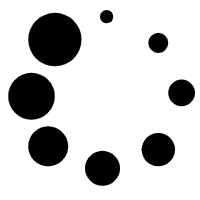
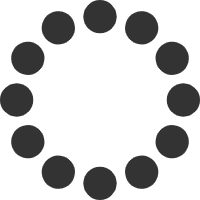
天气详情加白天/黑夜判断

diff --git a/pages/weatherForecast/weatherForecast.vue b/pages/weatherForecast/weatherForecast.vue
@@ -1,7 +1,10 @@
 <template>
-	<view class="page-bg" style="padding-bottom: 24px;background: #fff;">
-    <view class="header-modular" v-if="now">
-	    <image class="bg-wave" src="https://codermoyv.gitee.io/coder-moyv/assets/images/wechat/bg_wave.gif"></image>
+	<view class="page-bg" style="padding-bottom: 24px;background: #fff url(/static/100{{dn}}.png) no-repeat center bottom;background-size: 100% 100%;">
+    <!-- <view>
+　　　　<web-view :src="hftqUrl"></web-view>
+　　　</view> -->
+    <view class="header-modular" v-if="now" style="background: transparent;">
+	    <!-- <image class="bg-wave" src="https://codermoyv.gitee.io/coder-moyv/assets/images/wechat/bg_wave.gif"></image> -->
       <view class="row">
         <view class="row location-wrap" @click="selectLocation">
           <image class="icon" src="/static/icon_location.png"></image>
@@ -20,11 +23,53 @@
         <!-- 风向 级数 -->
         <view class="tips ">{{now.windDir}} {{now.windScale}}级</view>
         <view class="tips ">湿度 {{now.humidity}}%</view>
-        <view class="tips ">气压 {{now.pressure}}Pa</view>
+        <view class="tips ">气压 {{now.pressure}}hPa</view>
+      </view>
+    </view>
+    <view class="header-modular" v-else style="background: transparent;text-align: center;line-height: 360rpx;">
+      <view class="loading"></view>
+    </view>
+
+    <view>
+      <view class="tab-title">
+    　　<view @click="change(0)" :class="{active:active == 0}">24小时预报</view>
+      　<view @click="change(1)" :class="{active:active == 1}">7天预报</view>
+      </view>
+      <view class="tab-cont" :class="{active:active == 0}">
+        <view class="card-modular " v-if="hourly">
+          <view class="card-wrap">
+            <block v-for="(item, index) in hourly" :key="index">
+              <view class="item hourly">
+                <view class="text-gray">{{item.time}}</view>
+                <image class="icon" src="https://codermoyv.gitee.io/coder-moyv/assets/images/wechat/weather_custom/{{item.icon}}.png"></image>
+                <view class="text-primary mb-32">{{item.temp}}°</view>
+                <view>{{item.windDir}}</view>
+                <view class="text-gray">{{item.windScale}}级</view>
+              </view>
+            </block>
+          </view>
+        </view>
+      </view>
+      <view class="tab-cont" :class="{active:active == 1}">
+        <view class="card-modular" v-if="daily">
+          <view class="card-wrap">
+            <block v-for="(item, index) in daily" :key="index">
+              <view class="item daily">
+                <view>{{item.dateToString}}</view>
+                <view class="text-gray">{{item.date}}</view>
+                <image class="icon" src="https://codermoyv.gitee.io/coder-moyv/assets/images/wechat/weather_custom/{{item.iconDay}}.png"></image>
+                <view class="text-primary ">{{item.tempMin}}°C~{{item.tempMax}}°C</view>
+                <image class="icon" src="https://codermoyv.gitee.io/coder-moyv/assets/images/wechat/weather_custom/{{item.iconNight}}.png"></image>
+                <view>{{item.windDirDay}}</view>
+                <view class="text-gray">{{item.windScaleDay}}级</view>
+              </view>
+            </block>
+          </view>
+        </view>
       </view>
     </view>
 
-    <view class="card-modular " v-if="hourly">
+    <!-- <view class="card-modular " v-if="hourly">
       <view class="title">24小时预报</view>
       <view class="card-wrap">
         <block v-for="(item, index) in hourly" :key="index">
@@ -37,9 +82,9 @@
           </view>
         </block>
       </view>
-    </view>
+    </view> -->
 
-    <view class="card-modular" v-if="daily">
+    <!-- <view class="card-modular" v-if="daily">
       <view class="title">7天预报</view>
       <view class="card-wrap">
         <block v-for="(item, index) in daily" :key="index">
@@ -54,7 +99,7 @@
           </view>
         </block>
       </view>
-    </view>
+    </view> -->
   </view>
 </template>
 
@@ -63,6 +108,8 @@ const APIKEY = "39b6004a20904e2da4f117a3dca5018d";// 和风天气申请的KEY
 export default {
   data() {
     return {
+      active: 0,
+      // hftqUrl: 'https://widget-page.qweather.net/h5/index.html?bg=1&md=0123456&lc=accu&key=a87cdc8fdc76402dafc378989d296804',
       location: '', // 位置
       city: '', // 市
       county: '', // 区县
@@ -72,10 +119,20 @@ export default {
       daily: '', // 7天天气信息
     }
   },
-  onLoad() {
+  props: {
+    dn: {
+      type: String,
+      default: ''
+    },
+  },
+  onLoad(options) {
+    
     this.getLocation();
 	},
   methods: {
+    change(val) {
+      this.active = val;
+    },
     //选择定位
     selectLocation() {
       var that = this
@@ -269,7 +326,28 @@ export default {
     formatNumber(n) {
       n = n.toString()
       return n[1] ? n : '0' + n
-    },
+    }
   }
 }
 </script>
+
+<style>
+.tab-title view {
+  padding: 12px 0;
+  display: inline-block;
+  width: 50%;
+  text-align: center;
+  color: #efefef;
+  border-bottom: 2px solid #efefef;
+}
+.tab-title view.active {
+  color: #f37b1d;
+  border-bottom: 2px solid #f37b1d;
+}
+.tab-cont {
+  display: none;
+}
+.tab-cont.active {
+  display: block;
+}
+</style>

diff --git a/pages/index/index.vue b/pages/index/index.vue
@@ -1,5 +1,6 @@
 <template>
-	<view class="page-bg" style="background: #fff url({{dayImg}}) no-repeat center bottom;background-size: 100% calc(100vh - 200rpx)">
+	<view class="page-bg" style="background: #fff url({{dayImg}}) no-repeat center bottom;background-size: 100% calc(100vh - 100rpx)">
+  <!-- <view class="page-bg" style="background:#fff url(https://staticedu-wps.cache.iciba.com/image/810244b8963f47604d8312762674bfd8.png) no-repeat center bottom;background-size: 100% calc(100vh - 100px);"> -->
     <view class="header-modular" v-if="now">
       <view class="more" @click="btnWeatherForecast">详情<image src="/static/more.png"></image></view>
       <image class="bg-wave" src="https://codermoyv.gitee.io/coder-moyv/assets/images/wechat/bg_wave.gif"></image>
@@ -23,6 +24,9 @@
         <view class="tips ">湿度 {{now.humidity}}%</view>
         <view class="tips ">气压 {{now.pressure}}hPa</view>
       </view>
+    </view>
+    <view class="header-modular" v-else style="text-align: center;line-height: 360rpx;">
+      <view class="loading"></view>
     </view>
 
     <!-- <view class="page-section-spacing bg-blue">
@@ -61,13 +65,14 @@ export default {
       now: '', // 实时天气信息
       today: '',
       // swipers: [], // 轮播图
-      dayImg: ''
+      dayImg: '',
+      dn: 'd', // 日/夜
     }
   },
   onLoad() {
     // this.swipers=["/static/carousel-img1.jpg", "/static/carousel-img2.jpeg", "/static/carousel-img3.jpg"];
 
-    // this.dayWord();
+    this.dayWord();
     
     this.getLocation();
 	},
@@ -85,8 +90,20 @@ export default {
     // 天气预报
     btnWeatherForecast() {
       uni.navigateTo({
-        url: '/pages/weatherForecast/weatherForecast'
+        url: '/pages/weatherForecast/weatherForecast?dn=' + this.dn
       })
+    },
+    // 通过日出日落时间判断白天黑夜
+    dayNight(daily) {
+      let sunriseMs = new Date(daily.fxDate + ' ' + daily.sunrise + ':00').getTime()
+      let sunsetMs = new Date(daily.fxDate + ' ' + daily.sunset + ':00').getTime()
+      let nowMs = new Date().getTime()
+      // console.log(sunriseMs, sunsetMs,nowMs)
+      if(sunriseMs < nowMs && nowMs < sunsetMs) {
+        this.dn = 'd'
+      }else{
+        this.dn = 'n'
+      }
     },
 
     //选择定位
@@ -218,6 +235,17 @@ export default {
 
         }
       })
+
+      // 获取日出日落时间判定白天或黑夜
+      wx.request({
+        url: 'https://devapi.qweather.com/v7/weather/7d?key=' + APIKEY + "&location=" + that.location,
+        success(result) {
+          var res = result.data
+          that.daily = res.daily
+          that.dayNight(that.daily[0])
+          wx.hideLoading()
+        }
+      })
     },
     /**
      * 获取天气
@@ -258,10 +286,10 @@ export default {
 <style>
 .header-modular .more {
 	position: absolute;
-  top: 30px;
+  top: 18px;
   right: 12px;
   color: #fff;
-  font-size: 20px;
+  font-size: 18px;
 }
 .header-modular .more image {
   width: 30px;

diff --git a/App.vue b/App.vue
@@ -34,7 +34,7 @@
   margin-bottom: 32rpx;
 }
 .header-modular {
-  height: 400rpx;
+  height: 360rpx;
   background-color: #64C8FA;
   background: linear-gradient(to bottom, #56CCF2, #2F80ED);
   position: relative;
@@ -53,7 +53,6 @@
   font-size: 36rpx;
 }
 .header-modular .title .title-city {
-  font-size: 60rpx;
   margin-right: 12rpx;
 }
 .header-modular .location-wrap {
@@ -62,22 +61,22 @@
   font-size: 36rpx;
 }
 .header-modular .location-wrap .icon {
-  width: 60rpx;
-  height: 60rpx;
+  width: 40rpx;
+  height: 40rpx;
   margin-right: 8rpx;
 }
 .header-modular .tmp {
-  font-size: 70rpx;
+  font-size: 60rpx;
   color: #ffffff;
   position: absolute;
-  top: 70px;
+  top: 60px;
   right: 12px;
 }
 .header-modular .today {
   font-size: 36rpx;
   color: #ffffff;
   position: absolute;
-  top: 130px;
+  top: 110px;
   right: 12px;
 }
 .header-modular .icon-weather {
@@ -169,6 +168,20 @@
 }
 .page-section-spacing .flex-wrp .flex-item.flex-item-m {
   width: 34%;
+}
+.loading {
+  width: 50px;
+  height: 50px;
+  background: transparent url(/static/loading.png) no-repeat center center;
+  background-size: 100% 100%;
+  display: inline-block;
+  animation: move 1.2s linear infinite;
+  -webkit-animation: move 3.6s linear infinite;
+}
+@keyframes move {
+  100% {
+      transform: rotate(360deg);
+  }
 }
 /* 天气预报end */
 /*每个页面公共css */

diff --git a/pages/refuseIndex/refuseIndex.vue b/pages/refuseIndex/refuseIndex.vue
@@ -31,7 +31,7 @@
         <view>猪吃了会死的...是<span style="color: #f00;font-size: 18px;margin-left: 4px;">有害垃圾</span></view>
         <view>可以卖了换猪的...是<span style="color: #00f;font-size: 18px;margin-left: 4px;">可回收垃圾</span></view>
         <view>多考虑下猪<span style="color: #cd853f;font-size: 24px;">*(^o^)*</span>，垃圾就能分对了~</view>
-        <image src="/static/pig.jpeg" style="width: 100%;" @click="btnSearch('1')"></image>
+        <image src="/static/pig.jpeg" style="width: 100%;"></image>
       </view>
     </view>
 	</view>
